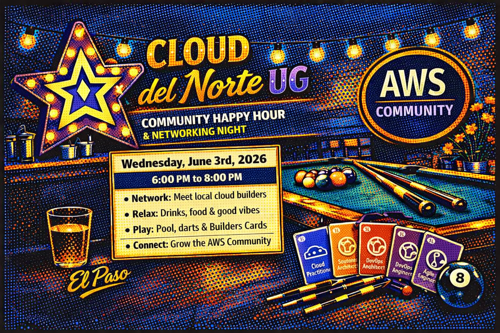
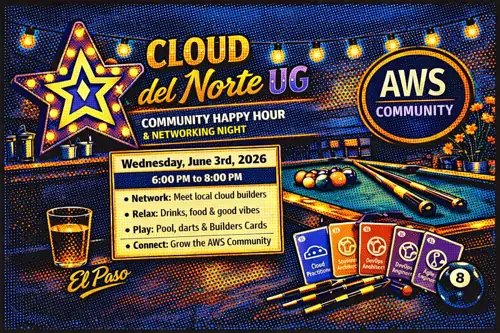
perf(feed): wave 37b — re-encode event webp images at q=72 (saves ~83%) + fade-in opacity transitions on images and date strings
Reduces first-paint image weight on featured-event + upcoming-virtual-event
cards. Adds CSS opacity transitions + fade-in keyframes so images and date
strings ease in over 320ms instead of harsh skeleton-to-content snap.
prefers-reduced-motion respected.

Image weights (before → after, q=72 effort=6 via scripts/optimize-event-images.mjs):
  featured-2026-06-03-dark.webp:        372.1 KB → 66.6 KB (-82.1%)
  featured-2026-06-03.webp:             387.6 KB → 68.3 KB (-82.4%)
  global-community-gatherings-dark.webp:  263.3 KB → 47.6 KB (-81.9%)
  global-community-gatherings-light.webp: 298.3 KB → 45.2 KB (-84.9%)
  Total: 1321.4 KB → 227.7 KB (-82.8%) — saves ~1.07 MB on first paint.

New script scripts/optimize-event-images.mjs is idempotent for future image
additions; bails on any file where re-encoding produces a larger output.

diff --git a/src/pages/feed/components/__tests__/image-fade-in.test.tsx b/src/pages/feed/components/__tests__/image-fade-in.test.tsx
@@ -1,0 +1,156 @@
+// Copyright Amazon.com, Inc. or its affiliates. All Rights Reserved.
+// SPDX-License-Identifier: MIT-0
+
+/**
+ * Wave 37b — image fade-in + date-string fade-in regression tests.
+ *
+ * Verifies the four CSS hooks that ship in this wave:
+ *  1. `.feed-featured-event__image` and `.feed-upcoming-virtual-event__image`
+ *     start at opacity:0 (so the binary fades in instead of popping).
+ *  2. The `markImageLoaded` onLoad handler adds an `is-loaded` class to the
+ *     <img> when the binary loads, which the CSS rule keys off of to flip
+ *     opacity to 1.
+ *  3. A shared `@keyframes feed-fade-in { from opacity:0 to opacity:1 }`
+ *     definition exists for the date plates + image wrappers.
+ *  4. `prefers-reduced-motion: reduce` disables both the transition and the
+ *     keyframes animation so reduced-motion users see content immediately.
+ *
+ * The CSS-rule assertions read the styles.css file off disk because jsdom
+ * does not actually evaluate or compute the styles for this stylesheet
+ * during the component test environment. Reading the file text is the same
+ * approach used elsewhere in the test tree to lock CSS contracts.
+ */
+
+import { readFileSync } from "node:fs";
+import { resolve } from "node:path";
+import { fireEvent, render } from "@testing-library/react";
+import { afterEach, beforeEach, describe, expect, it, vi } from "vitest";
+import { LocaleProvider } from "../../../../contexts/locale-context";
+import FeaturedEvent from "../featured-event";
+import UpcomingVirtualEvent from "../upcoming-virtual-event";
+
+const STYLES_CSS_PATH = resolve(__dirname, "..", "..", "styles.css");
+const stylesCss = readFileSync(STYLES_CSS_PATH, "utf8");
+
+// FeaturedEvent's spotsRemaining() hits the public RSVP API. Stub fetch so
+// the inner component renders without a network call. Mirrors the stub in
+// featured-event.test.tsx.
+const fetchMock = vi.fn();
+
+beforeEach(() => {
+	fetchMock.mockReset();
+	fetchMock.mockResolvedValue(
+		new Response(
+			JSON.stringify({
+				eventId: "happy-hour-2026-06-03",
+				capacity: 50,
+				taken: 0,
+				remaining: 50,
+			}),
+			{ status: 200, headers: { "Content-Type": "application/json" } },
+		),
+	);
+	globalThis.fetch = fetchMock as unknown as typeof fetch;
+});
+
+afterEach(() => {
+	fetchMock.mockReset();
+});
+
+describe("Wave 37b — image fade-in CSS rules", () => {
+	it("declares opacity:0 + 320ms opacity transition on featured-event + upcoming-virtual-event images", () => {
+		// Single combined selector block with both image classes.
+		expect(stylesCss).toMatch(
+			/\.feed-featured-event__image\s*,\s*\.feed-upcoming-virtual-event__image\s*\{[^}]*opacity:\s*0[^}]*transition:\s*opacity\s+320ms/,
+		);
+	});
+
+	it("declares opacity:1 once the .is-loaded class is added", () => {
+		expect(stylesCss).toMatch(
+			/\.feed-featured-event__image\.is-loaded\s*,\s*\.feed-upcoming-virtual-event__image\.is-loaded\s*\{[^}]*opacity:\s*1/,
+		);
+	});
+
+	it("defines the @keyframes feed-fade-in 0→1 opacity ramp", () => {
+		expect(stylesCss).toMatch(
+			/@keyframes\s+feed-fade-in\s*\{\s*from\s*\{\s*opacity:\s*0[^}]*\}\s*to\s*\{\s*opacity:\s*1[^}]*\}\s*\}/,
+		);
+	});
+
+	it("applies the feed-fade-in animation to the date plates + image wrappers (with the 60ms delay + backwards fill)", () => {
+		// Find the rule that targets the five wrapper selectors and check it
+		// uses the feed-fade-in keyframes with the 320ms / 60ms / backwards
+		// signature spelled in the styles.
+		expect(stylesCss).toMatch(
+			/\.feed-featured-event__date,\s*\.feed-next-meetup__date,\s*\.feed-upcoming-virtual-event__date,\s*\.feed-featured-event__image-area,\s*\.feed-upcoming-virtual-event__bulbs-wrapper\s*\{\s*animation:\s*feed-fade-in\s+320ms\s+ease-out\s+60ms\s+backwards/,
+		);
+	});
+
+	it("disables both the image transition and the keyframes animation under prefers-reduced-motion", () => {
+		// Find the @media (prefers-reduced-motion: reduce) block at the end
+		// of the file. Both image opacity:1 + transition:none + animation:
+		// none on the wrapper selectors must appear inside it.
+		const reducedMotionMatch = stylesCss.match(
+			/@media\s*\(prefers-reduced-motion:\s*reduce\)\s*\{[\s\S]*?\.feed-featured-event__image[\s\S]*?\}\s*\}\s*$/m,
+		);
+		expect(reducedMotionMatch).not.toBeNull();
+		const block = reducedMotionMatch?.[0] ?? "";
+		expect(block).toMatch(/opacity:\s*1/);
+		expect(block).toMatch(/transition:\s*none/);
+		expect(block).toMatch(/animation:\s*none/);
+	});
+});
+
+describe("Wave 37b — onLoad handler adds is-loaded class", () => {
+	it("FeaturedEvent: each <img> picks up the is-loaded class after firing the load event", () => {
+		const { container } = render(
+			<LocaleProvider locale="us">
+				<FeaturedEvent />
+			</LocaleProvider>,
+		);
+		const lightImg = container.querySelector(
+			".feed-featured-event__image--light",
+		);
+		const darkImg = container.querySelector(
+			".feed-featured-event__image--dark",
+		);
+		expect(lightImg).not.toBeNull();
+		expect(darkImg).not.toBeNull();
+
+		// Pre-load: no is-loaded class.
+		expect(lightImg?.classList.contains("is-loaded")).toBe(false);
+		expect(darkImg?.classList.contains("is-loaded")).toBe(false);
+
+		// Fire the load event — the onLoad handler should add the class.
+		if (lightImg) fireEvent.load(lightImg);
+		if (darkImg) fireEvent.load(darkImg);
+
+		expect(lightImg?.classList.contains("is-loaded")).toBe(true);
+		expect(darkImg?.classList.contains("is-loaded")).toBe(true);
+	});
+
+	it("UpcomingVirtualEvent: each <img> picks up the is-loaded class after firing the load event", () => {
+		const { container } = render(
+			<LocaleProvider locale="us">
+				<UpcomingVirtualEvent />
+			</LocaleProvider>,
+		);
+		const lightImg = container.querySelector(
+			".feed-upcoming-virtual-event__image--light",
+		);
+		const darkImg = container.querySelector(
+			".feed-upcoming-virtual-event__image--dark",
+		);
+		expect(lightImg).not.toBeNull();
+		expect(darkImg).not.toBeNull();
+
+		expect(lightImg?.classList.contains("is-loaded")).toBe(false);
+		expect(darkImg?.classList.contains("is-loaded")).toBe(false);
+
+		if (lightImg) fireEvent.load(lightImg);
+		if (darkImg) fireEvent.load(darkImg);
+
+		expect(lightImg?.classList.contains("is-loaded")).toBe(true);
+		expect(darkImg?.classList.contains("is-loaded")).toBe(true);
+	});
+});

diff --git a/src/pages/feed/styles.css b/src/pages/feed/styles.css
@@ -3950,3 +3950,86 @@
 		animation: none !important;
 	}
 }
+
+/* ============================================================
+   Wave 37b — Image fade-in + date/image-area gentle ease-in
+   ============================================================
+   Bryan reported the dark featured-event banner takes a moment to load and
+   pops onto the card with a hard skeleton-to-content snap. Two changes
+   here:
+
+   (1) IMAGES — the .webp banners on FeaturedEvent + UpcomingVirtualEvent
+       start at opacity:0 and transition to opacity:1 over 320ms once the
+       <img> onLoad handler adds the `is-loaded` class. Replaces the
+       existing hard pop with a soft fade. The hideBrokenImage onError
+       handler from wave 30a still applies (display:none on broken
+       images), and the existing theme-driven display:none rules on the
+       off-theme variant are unaffected — opacity transitions don't fire
+       on a display:none element.
+
+   (2) DATE PLATES + IMAGE WRAPPERS — the date strings render synchronously
+       via Intl.DateTimeFormat, but Bryan wanted the same gentle ease-in
+       feel. A pure CSS keyframes animation with `animation-fill-mode:
+       backwards` covers the 60ms initial delay so the elements paint at
+       opacity 0 before the keyframes start. No JS state needed — the
+       animation runs once on first paint and never re-fires.
+
+   Both layers are gated behind prefers-reduced-motion: reduce — reduced-
+   motion users see images at full opacity immediately (transition:none)
+   and date/image-area wrappers without any animation.
+
+   Note: the `__image-area` wrapper on FeaturedEvent and the
+   `__bulbs-wrapper` on UpcomingVirtualEvent receive the wrapper-level
+   fade-in animation. The inner <img> elements still independently use
+   the opacity transition keyed off `is-loaded` (covers the actual image
+   binary load latency, which can outlast the 60ms wrapper fade). */
+
+/* (1) Image binary fade-in transition */
+.feed-featured-event__image,
+.feed-upcoming-virtual-event__image {
+	opacity: 0;
+	transition: opacity 320ms ease-out;
+}
+
+.feed-featured-event__image.is-loaded,
+.feed-upcoming-virtual-event__image.is-loaded {
+	opacity: 1;
+}
+
+/* (2) Pure-CSS fade-in keyframes for date plates + image wrappers */
+@keyframes feed-fade-in {
+	from {
+		opacity: 0;
+	}
+	to {
+		opacity: 1;
+	}
+}
+
+.feed-featured-event__date,
+.feed-next-meetup__date,
+.feed-upcoming-virtual-event__date,
+.feed-featured-event__image-area,
+.feed-upcoming-virtual-event__bulbs-wrapper {
+	animation: feed-fade-in 320ms ease-out 60ms backwards;
+}
+
+/* Reduced motion — make every Wave 37b animation disappear and ensure
+   the elements paint at full opacity immediately. */
+@media (prefers-reduced-motion: reduce) {
+	.feed-featured-event__image,
+	.feed-upcoming-virtual-event__image,
+	.feed-featured-event__image.is-loaded,
+	.feed-upcoming-virtual-event__image.is-loaded {
+		opacity: 1;
+		transition: none;
+	}
+
+	.feed-featured-event__date,
+	.feed-next-meetup__date,
+	.feed-upcoming-virtual-event__date,
+	.feed-featured-event__image-area,
+	.feed-upcoming-virtual-event__bulbs-wrapper {
+		animation: none;
+	}
+}

diff --git a/src/pages/feed/components/featured-event.tsx b/src/pages/feed/components/featured-event.tsx
@@ -66,6 +66,17 @@ function hideBrokenImage(event: SyntheticEvent<HTMLImageElement>) {
 }
 
 /**
+ * Wave 37b — onLoad handler that flags the <img> as `is-loaded` so the
+ * CSS opacity transition can fade the binary in over 320ms. Avoids the
+ * harder skeleton-to-content snap when the image arrives. The CSS rule
+ * gates this behind prefers-reduced-motion so reduced-motion users see
+ * the image at full opacity immediately.
+ */
+function markImageLoaded(event: SyntheticEvent<HTMLImageElement>) {
+	event.currentTarget.classList.add("is-loaded");
+}
+
+/**
  * Wave 32a — Theater marquee header.
  *
  * Replaces Cloudscape's <Header variant="h2"> with a custom JSX block so
@@ -194,6 +205,7 @@ function FeaturedEventInner() {
 								width={1200}
 								height={630}
 								loading="lazy"
+								onLoad={markImageLoaded}
 								onError={hideBrokenImage}
 							/>
 							<img
@@ -203,6 +215,7 @@ function FeaturedEventInner() {
 								width={1200}
 								height={630}
 								loading="lazy"
+								onLoad={markImageLoaded}
 								onError={hideBrokenImage}
 							/>
 						</div>

diff --git a/src/pages/feed/components/upcoming-virtual-event.tsx b/src/pages/feed/components/upcoming-virtual-event.tsx
@@ -64,6 +64,16 @@ function hideBrokenImage(event: SyntheticEvent<HTMLImageElement>) {
 }
 
 /**
+ * Wave 37b — onLoad handler that flags the <img> as `is-loaded` so the
+ * CSS opacity transition can fade the binary in over 320ms. The CSS rule
+ * gates this behind prefers-reduced-motion so reduced-motion users see
+ * the image at full opacity immediately.
+ */
+function markImageLoaded(event: SyntheticEvent<HTMLImageElement>) {
+	event.currentTarget.classList.add("is-loaded");
+}
+
+/**
  * Wave 33b — Starfield-twinkle marquee header.
  *
  * Replaces Cloudscape's <Header variant="h2"> with a custom JSX block so the
@@ -172,6 +182,7 @@ function UpcomingVirtualEventInner() {
 							width={1200}
 							height={630}
 							loading="lazy"
+							onLoad={markImageLoaded}
 							onError={hideBrokenImage}
 						/>
 					</a>
@@ -190,6 +201,7 @@ function UpcomingVirtualEventInner() {
 								width={1200}
 								height={630}
 								loading="lazy"
+								onLoad={markImageLoaded}
 								onError={hideBrokenImage}
 							/>
 							<EventBulbsOverlay />
